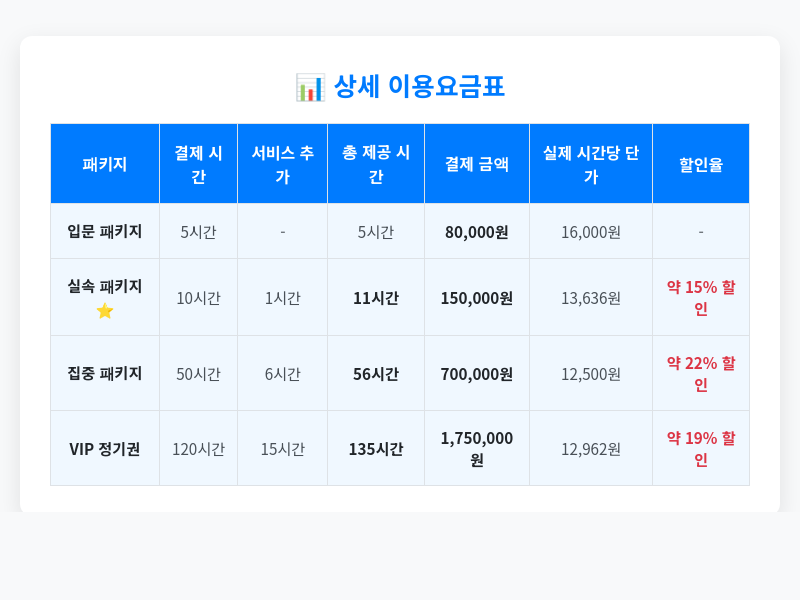
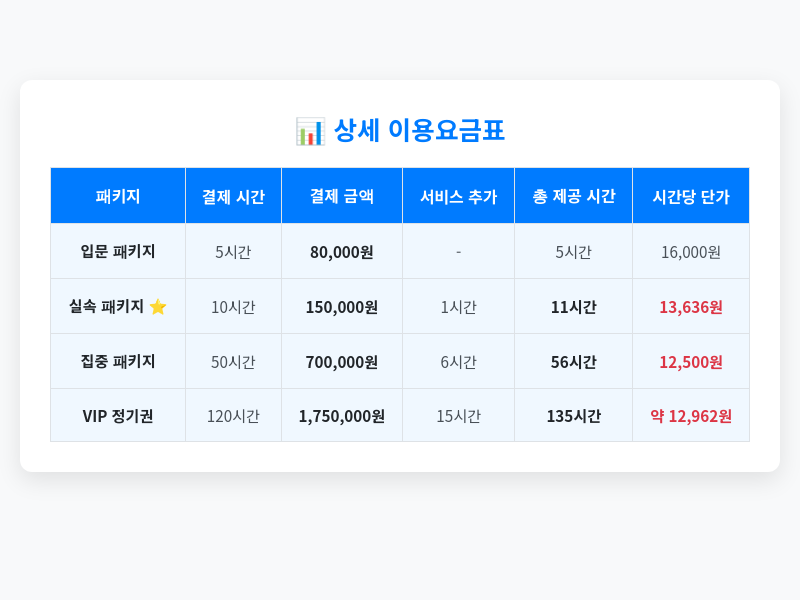
Final: Correct pricing calculation - service hours included in hourly rate

diff --git a/price_table_only.html b/price_table_only.html
@@ -78,49 +78,44 @@
                 <tr>
                     <th>패키지</th>
                     <th>결제 시간</th>
+                    <th>결제 금액</th>
                     <th>서비스 추가</th>
                     <th>총 제공 시간</th>
-                    <th>결제 금액</th>
-                    <th>실제 시간당 단가</th>
-                    <th>할인율</th>
+                    <th>시간당 단가</th>
                 </tr>
             </thead>
             <tbody>
                 <tr>
                     <td><strong>입문 패키지</strong></td>
                     <td>5시간</td>
+                    <td><strong>80,000원</strong></td>
                     <td>-</td>
                     <td>5시간</td>
-                    <td><strong>80,000원</strong></td>
                     <td>16,000원</td>
-                    <td>-</td>
                 </tr>
                 <tr>
                     <td><strong>실속 패키지</strong> <span class="star">⭐</span></td>
                     <td>10시간</td>
+                    <td><strong>150,000원</strong></td>
                     <td>1시간</td>
                     <td><strong>11시간</strong></td>
-                    <td><strong>150,000원</strong></td>
-                    <td>13,636원</td>
-                    <td><span class="highlight">약 15% 할인</span></td>
+                    <td><span class="highlight">13,636원</span></td>
                 </tr>
                 <tr>
                     <td><strong>집중 패키지</strong></td>
                     <td>50시간</td>
+                    <td><strong>700,000원</strong></td>
                     <td>6시간</td>
                     <td><strong>56시간</strong></td>
-                    <td><strong>700,000원</strong></td>
-                    <td>12,500원</td>
-                    <td><span class="highlight">약 22% 할인</span></td>
+                    <td><span class="highlight">12,500원</span></td>
                 </tr>
                 <tr>
                     <td><strong>VIP 정기권</strong></td>
                     <td>120시간</td>
+                    <td><strong>1,750,000원</strong></td>
                     <td>15시간</td>
                     <td><strong>135시간</strong></td>
-                    <td><strong>1,750,000원</strong></td>
-                    <td>12,962원</td>
-                    <td><span class="highlight">약 19% 할인</span></td>
+                    <td><span class="highlight">약 12,962원</span></td>
                 </tr>
             </tbody>
         </table>

diff --git a/client/src/pages/Services.tsx b/client/src/pages/Services.tsx
@@ -31,7 +31,7 @@ const servicePackages: ServicePackage[] = [
     price: 150000,
     pricePerHour: 13636,
     popular: true,
-    description: '가장 인기 있는 실속 패키지 (1시간 서비스 추가)',
+    description: '가장 인기 있는 실속 패키지 (1시간 서비스 추가 / 시간당 15,000원)',
     features: ['실시간 진행 상황 보고', '이중 보안 인증', '카카오톡 상담', '작업 중간 보고서', '우선 기사 배정', '✨ 1시간 서비스 추가']
   },
   {
@@ -41,7 +41,7 @@ const servicePackages: ServicePackage[] = [
     price: 700000,
     pricePerHour: 12500,
     popular: false,
-    description: '중장기 이용에 최적화된 패키지 (6시간 서비스 추가)',
+    description: '중장기 이용에 최적화된 패키지 (6시간 서비스 추가 / 시간당 14,000원)',
     features: ['실시간 진행 상황 보고', '이중 보안 인증', '24시간 모니터링', '상세 작업 보고서', '우선 기사 배정', '스펙업 가이드 제공', '✨ 6시간 서비스 추가']
   },
   {
@@ -51,7 +51,7 @@ const servicePackages: ServicePackage[] = [
     price: 1750000,
     pricePerHour: 12962,
     popular: false,
-    description: '최고 대우의 VIP 정기권 (15시간 서비스 추가)',
+    description: '최고 대우의 VIP 정기권 (15시간 서비스 추가 / 시간당 약 12,962원)',
     features: ['실시간 진행 상황 보고', '이중 보안 인증', '24시간 모니터링', '상세 작업 보고서', '최고 등급 기사 배정 (전담)', '긴급 상황 대응', '사후 관리 지원', '1:1 스펙업 컨설팅', '✨ 15시간 서비스 추가']
   }
 ];
